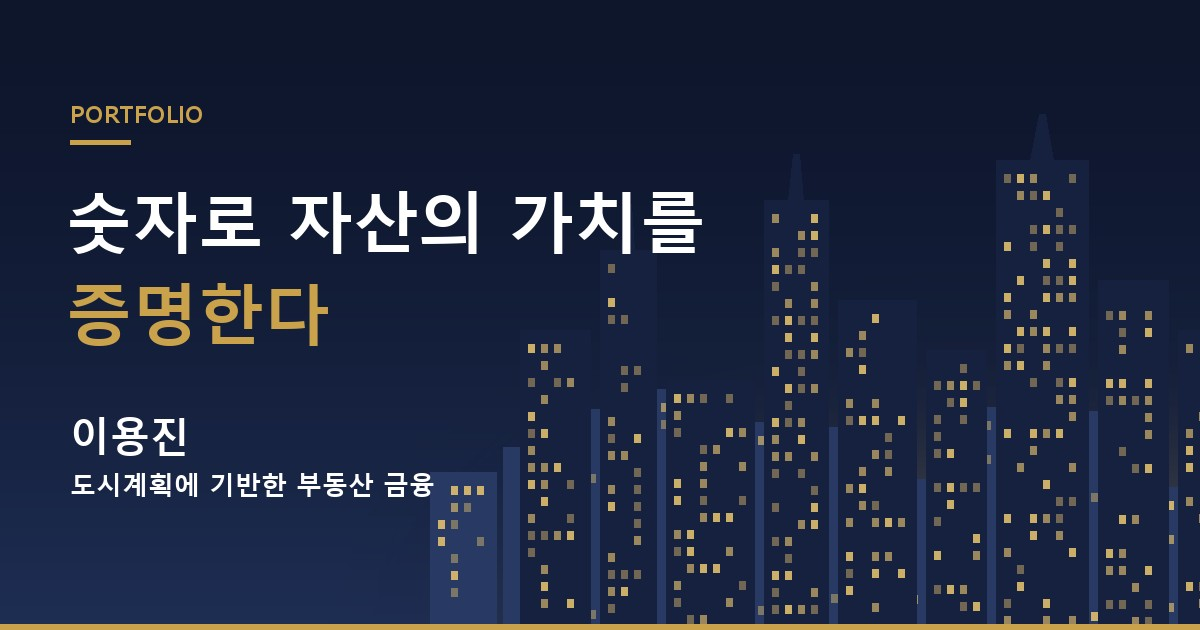
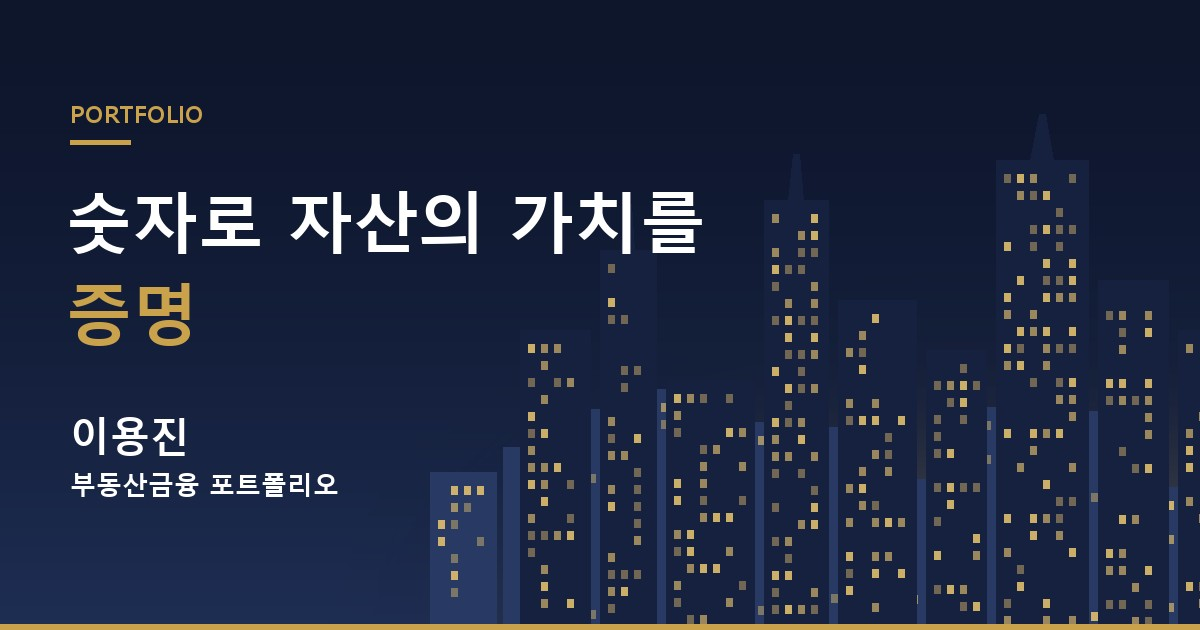
미리보기 이미지·이력서에서 '도시계획에 기반한 부동산 금융' 문구 제거

Changed region(s): [[0.1542, 0.4524, 0.2775, 0.573], [0.0617, 0.754, 0.37, 0.8143]]

diff --git a/index.html b/index.html
@@ -5,17 +5,17 @@
 <meta name="viewport" content="width=device-width, initial-scale=1.0">
 <!-- ✏ 카톡·문자로 링크 공유할 때 미리보기에 뜨는 제목/설명 -->
 <title>이용진 | 부동산금융 포트폴리오</title>
-<meta name="description" content="도시계획에 기반한 부동산 금융. 숫자로 자산의 가치를 증명한다.">
+<meta name="description" content="숫자로 자산의 가치를 증명. 부동산금융 포트폴리오">
 <!-- 카톡·문자로 링크를 공유할 때 뜨는 미리보기 (이미지: images/share.jpg) -->
 <meta property="og:type" content="website">
 <meta property="og:url" content="https://leeyj6262-sketch.github.io/portfolio/">
 <meta property="og:title" content="이용진 | 부동산금융 포트폴리오">
-<meta property="og:description" content="도시계획에 기반한 부동산 금융. 숫자로 자산의 가치를 증명한다.">
-<meta property="og:image" content="https://leeyj6262-sketch.github.io/portfolio/images/share.jpg">
+<meta property="og:description" content="숫자로 자산의 가치를 증명. 부동산금융 포트폴리오">
+<meta property="og:image" content="https://leeyj6262-sketch.github.io/portfolio/images/share.jpg?v=2">
 <meta property="og:image:width" content="1200">
 <meta property="og:image:height" content="630">
 <meta name="twitter:card" content="summary_large_image">
-<meta name="twitter:image" content="https://leeyj6262-sketch.github.io/portfolio/images/share.jpg">
+<meta name="twitter:image" content="https://leeyj6262-sketch.github.io/portfolio/images/share.jpg?v=2">
 <link rel="stylesheet" href="https://cdn.jsdelivr.net/npm/pretendard@1.3.9/dist/web/static/pretendard.min.css">
 <style>
   :root {

diff --git a/resume.html b/resume.html
@@ -5,7 +5,7 @@
 <meta name="viewport" content="width=device-width, initial-scale=1.0">
 <title>이력서</title>
 <meta property="og:title" content="이용진 이력서">
-<meta property="og:image" content="https://leeyj6262-sketch.github.io/portfolio/images/share.jpg">
+<meta property="og:image" content="https://leeyj6262-sketch.github.io/portfolio/images/share.jpg?v=2">
 <link rel="stylesheet" href="https://cdn.jsdelivr.net/npm/pretendard@1.3.9/dist/web/static/pretendard.min.css">
 <style>
   :root { --navy: #14213d; --accent: #c9a24b; --line: #e4e7ee; --muted: #6b7280; }
@@ -59,7 +59,7 @@
     <img src="images/profile.jpg" alt="프로필 사진">
     <div>
       <h1><span data-i="이름"></span><small>Lee Yong Jin</small></h1>
-      <div class="tag">도시계획에 기반한 부동산 금융 · <span data-i="희망직무"></span></div>
+      <div class="tag" data-i="희망직무"></div>
       <div class="contact">
         <span data-row>✉ <span data-i="이메일"></span></span>
         <span data-row>📞 <span data-i="전화"></span></span>
